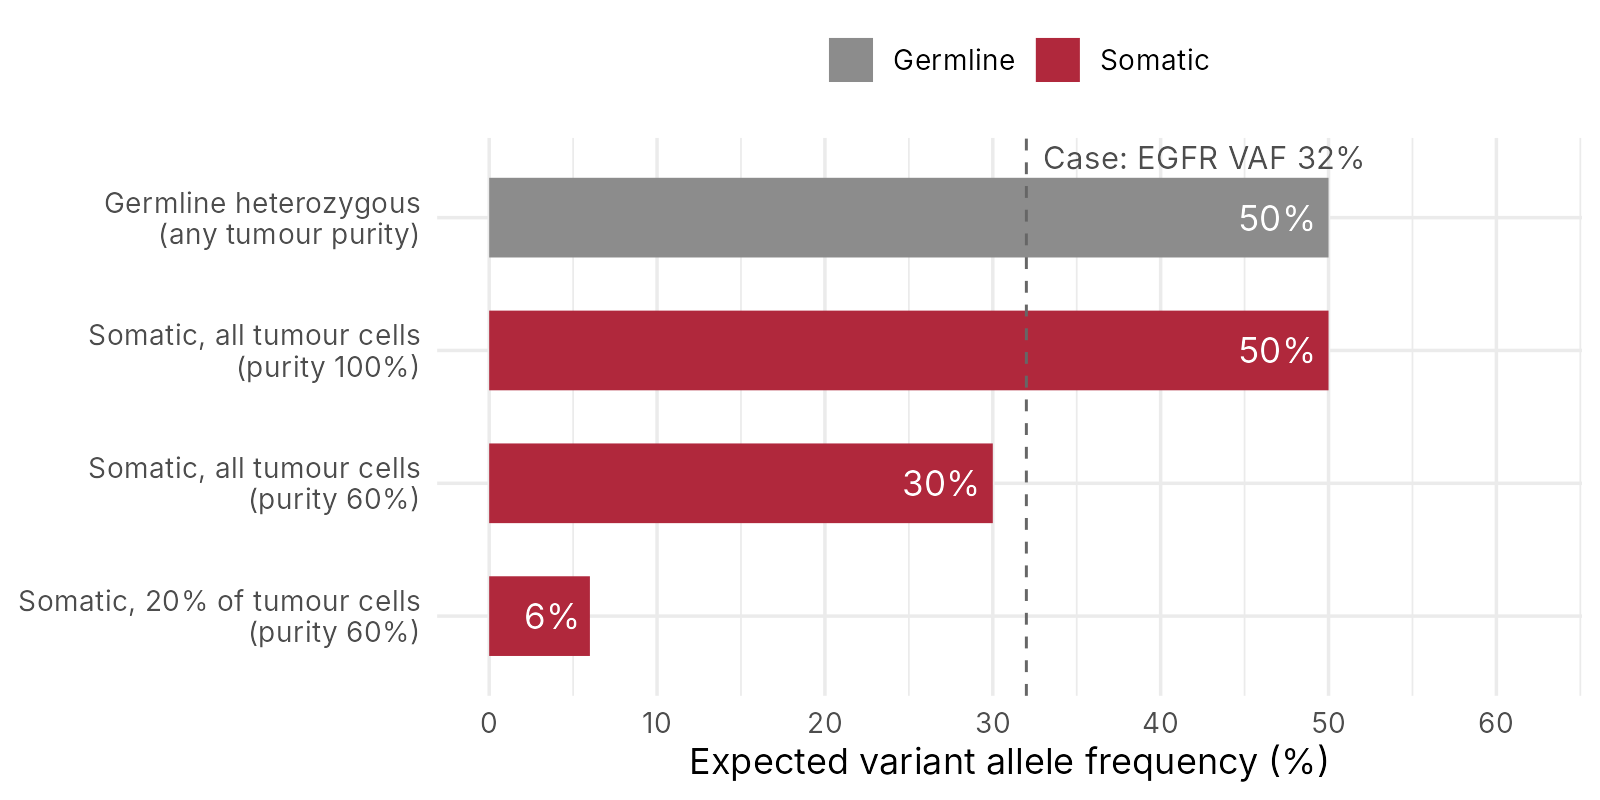
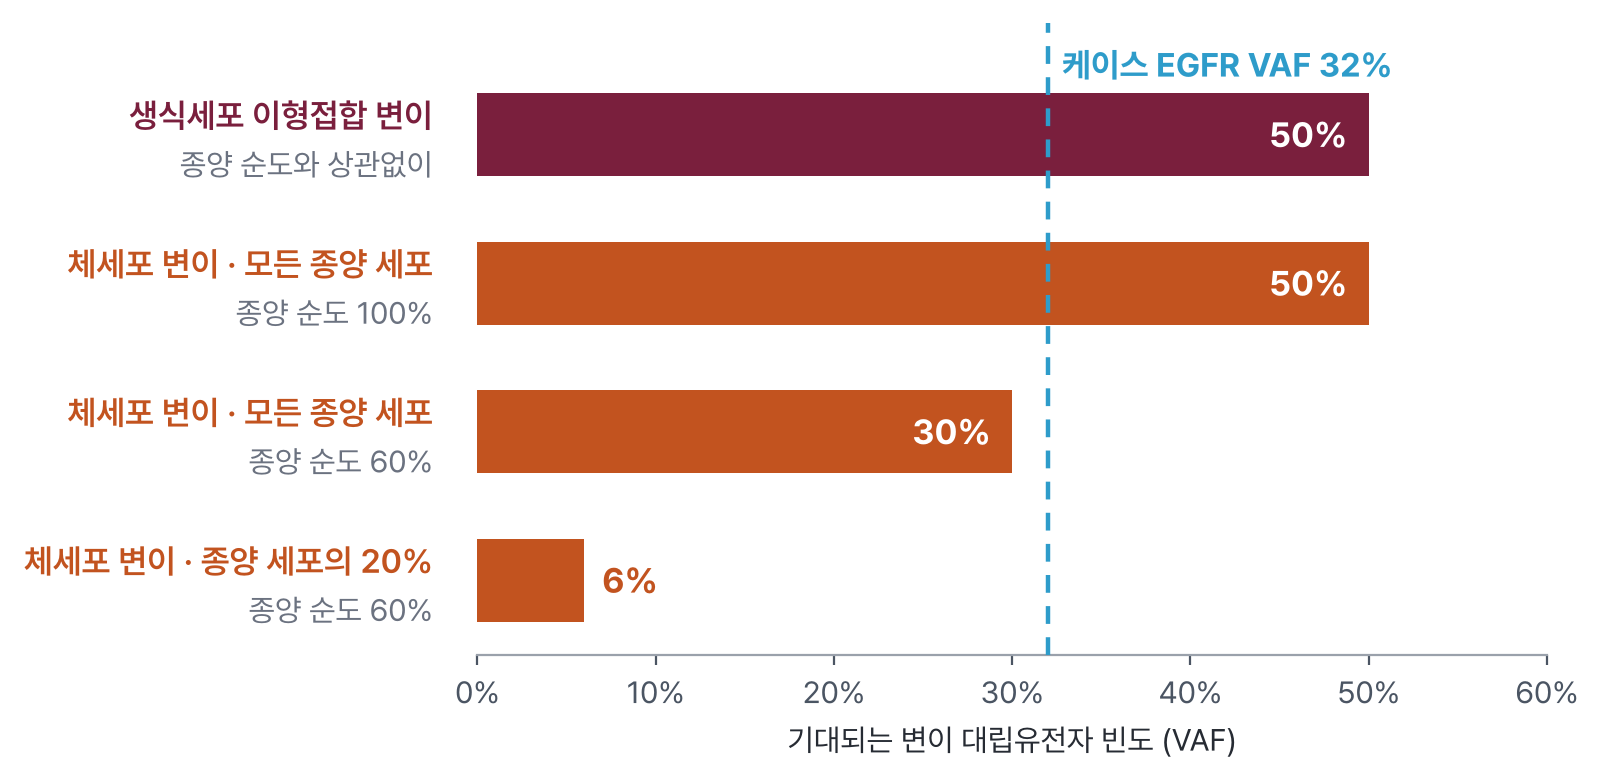
Add W6 concept figures in the shared Korean figure style
Seven figures from scripts/figs/w06_*.py: germline vs somatic (and what
tumour-only vs tumour-normal testing sees), expected VAF (redrawn in Korean,
replacing scripts/make_w06_figs.R), driver hotspot vs scattered loss of
function vs long passenger gene, companion diagnostic decision for the case,
resistance by clonal selection (T790M), liquid biopsy limits (low ctDNA,
CHIP) and synthetic lethality with PARP inhibitors. All ≤ 8 in wide with
labels ≥ 11 pt so they stay readable in the ~610 px column.

Claude-Session: https://claude.ai/code/session_013CY8uBCr4DnGjUKSp6qsd8

diff --git a/scripts/figs/w06_driver_hotspot.py b/scripts/figs/w06_driver_hotspot.py
@@ -1,0 +1,76 @@
+# W6 §2.2 driver를 알아보는 법: 변이가 단백질 어디에 모이나 (막대 높이 = 그 자리에 변이가 있는 종양 수, 예시)
+from medfig import *
+
+rng = np.random.default_rng(6)
+MIS, TRUNC = CRIMSON, ORANGE                   # missense vs truncating
+TRACK = "#E4E6EA"
+fig, ax = new(7.8, 6.7)
+X0 = 0.2                                         # where every protein starts
+
+
+def track(y, L, broken=False):
+    box(ax, X0, y - 0.07, L, 0.14, fc=TRACK, ec="none", r=0.07, z=2)
+    if broken:                                   # "very long" break mark
+        xb = X0 + L * 0.5
+        ax.add_patch(mp.Rectangle((xb - 0.09, y - 0.12), 0.18, 0.24, fc="white", ec="none", zorder=3))
+        for dx in (-0.09, 0.09):
+            ax.plot([xb + dx - 0.04, xb + dx + 0.04], [y - 0.13, y + 0.13], color="#9AA1AB", lw=1.3, zorder=4)
+
+
+def pop(x, y, h, kind):
+    ax.plot([x, x], [y + 0.07, y + 0.07 + h], color="#B9BEC6", lw=1.1, zorder=3)
+    if kind == "mis":
+        ax.add_patch(mp.Circle((x, y + 0.07 + h), 0.07, fc=MIS, ec="white", lw=0.8, zorder=5))
+    else:
+        ax.add_patch(mp.Rectangle((x - 0.065, y + 0.07 + h - 0.065), 0.13, 0.13, fc=TRUNC, ec="white", lw=0.8, zorder=5))
+
+
+def spaced(n, lo, hi, gap, avoid=()):
+    """n x positions in [lo, hi] at least `gap` apart (and away from `avoid`)."""
+    out = []
+    while len(out) < n:
+        x = rng.uniform(lo, hi)
+        if all(abs(x - o) >= gap for o in list(out) + list(avoid)):
+            out.append(x)
+    return sorted(out)
+
+
+def head(y, tag, gene, note, col):
+    """Row heading above the track: tag, example gene, what to notice."""
+    t = label(ax, X0, y, tag, fs=13, w="bold", c=col, ha="left")
+    ax.figure.canvas.draw()
+    x = X0 + t.get_window_extent().width / ax.figure.dpi + 0.12
+    label(ax, x, y, gene, fs=11.5, c=TEXT2, ha="left")
+    label(ax, X0, y - 0.32, note, fs=11.5, c=TEXT, ha="left")
+
+
+# ① oncogene: one hotspot (KRAS G12)
+y = 4.65; L = 3.4
+head(6.45, "① 종양유전자", "예: KRAS", "같은 자리가 반복해서 바뀜 = hotspot (켜진 채로 고정)", WINE)
+track(y, L)
+pop(X0 + L * 12 / 189, y, 1.05, "mis")
+label(ax, X0 + L * 12 / 189 + 0.14, y + 1.12, "G12", fs=12, w="bold", c=MIS, ha="left")
+for p in [40, 75, 117, 146, 160]:
+    pop(X0 + L * p / 189, y, 0.12 + 0.06 * rng.random(), "mis")
+
+# ② tumour suppressor: loss-of-function scattered
+y = 2.75; L = 6.0
+head(3.9, "② 종양억제유전자", "예: STK11", "일찍 끝나는 변이가 곳곳에 흩어짐 = 기능 상실 (브레이크 고장)", CRIMSON)
+track(y, L)
+for x in spaced(15, X0 + 0.1, X0 + L - 0.1, 0.24):
+    pop(x, y, 0.14 + 0.32 * rng.random(), "trunc" if rng.random() < 0.65 else "mis")
+
+# ③ long gene: many passengers
+y = 0.75; L = 7.4
+head(1.85, "③ 아주 긴 유전자", "예: TTN", "길이 때문에 변이가 쌓임 → 대부분 passenger", ORANGE)
+track(y, L, broken=True)
+for x in spaced(24, X0 + 0.1, X0 + L - 0.1, 0.2, avoid=[X0 + L * 0.5]):
+    pop(x, y, 0.1 + 0.16 * rng.random(), "mis" if rng.random() < 0.85 else "trunc")
+
+# legend (bottom)
+for i, (kind, name) in enumerate([("mis", "아미노산 하나가 바뀜 (missense)"), ("trunc", "일찍 끝남 (종결 코돈 · frameshift)")]):
+    xx = X0 + 0.07 + i * 3.75
+    pop(xx, 0.08 - 0.07, 0.0, kind)
+    label(ax, xx + 0.17, 0.08, name, fs=11, c=TEXT2, ha="left")
+label(ax, X0, -0.25, "막대 높이 = 그 자리에 변이가 있는 종양 수 (예시)", fs=11, c=TEXT2, ha="left")
+save(fig, "../../assets/img/w06/driver_hotspot.png")

diff --git a/scripts/figs/w06_germline_somatic.py b/scripts/figs/w06_germline_somatic.py
@@ -1,0 +1,58 @@
+# W6 §1.1 생식세포 변이 vs 체세포 변이: 어느 세포에 있나, 시료마다 무엇이 보이나
+from medfig import *
+
+GERM, SOMA = WINE, ORANGE                       # the two kinds of variant
+NORMAL_FC, NORMAL_EC = "#F1F2F4", "#D5D8DD"
+TUMOUR_FC, TUMOUR_EC = mix(CRIMSON, 0.2), mix(CRIMSON, 0.55)
+
+fig, ax = new(7.7, 6.6)
+
+
+def tissue(x0, y0, somatic):
+    """A patch of tissue: grid of cells, a tumour cluster on the right."""
+    nx, ny, r, step = 10, 5, 0.1, 0.25
+    cx, cy = x0 + 6.9 * step, y0 + 2.0 * step         # tumour centre
+    for i in range(nx):
+        for j in range(ny):
+            x, y = x0 + i * step + (0.12 if j % 2 else 0), y0 + j * step
+            tum = ((x - cx) / 0.72) ** 2 + ((y - cy) / 0.48) ** 2 <= 1
+            ax.add_patch(mp.Circle((x, y), r, fc=TUMOUR_FC if tum else NORMAL_FC,
+                                   ec=TUMOUR_EC if tum else NORMAL_EC, lw=0.9, zorder=2))
+            if (not somatic) or tum:
+                ax.add_patch(mp.Circle((x, y), 0.036, fc=SOMA if somatic else GERM, ec="none", zorder=3))
+    return cx, cy
+
+
+# ① ② where the variant is
+for x0, somatic, tag, line1, line2 in [
+        (0.25, False, "① 생식세포 변이", "몸의 거의 모든 세포에 있음", "→ 자녀에게 전달될 수 있음"),
+        (4.15, True, "② 체세포 변이", "종양 세포에만 있음", "→ 자녀에게 전달되지 않음")]:
+    col = SOMA if somatic else GERM
+    label(ax, x0 - 0.1, 6.2, tag, fs=13, w="bold", c=col, ha="left")
+    cx, cy = tissue(x0, 4.55, somatic)
+    label(ax, cx, cy + 0.72, "종양", fs=11, w="semibold", c=CRIMSON)
+    label(ax, x0 - 0.1, 4.12, line1, fs=11, c=TEXT, ha="left")
+    label(ax, x0 - 0.1, 3.82, line2, fs=11, c=TEXT2, ha="left")
+
+ax.plot([0.1, 7.6], [3.45, 3.45], color=LINE, lw=1)
+
+# ③ what each sample shows
+label(ax, 0.15, 3.12, "③ 시료마다 보이는 변이", fs=13, w="bold", c=TEXT, ha="left")
+cols = [(3.7, "생식세포 변이", GERM), (5.6, "체세포 변이", SOMA)]
+for x, name, c in cols:
+    label(ax, x, 2.7, name, fs=11, w="semibold", c=c)
+for y, name, has in [(2.2, "종양 조직", (True, True)), (1.55, "혈액 (정상 세포)", (True, False))]:
+    box(ax, 0.15, y - 0.26, 6.6, 0.52, fc=FAINT, ec="none", r=0.08)
+    label(ax, 0.35, y, name, fs=11, w="semibold", ha="left")
+    for (x, _, c), h in zip(cols, has):
+        if h:
+            ax.add_patch(mp.Circle((x, y), 0.11, fc=c, ec="none", zorder=4))
+        else:
+            label(ax, x, y, "없음", fs=11, c=TEXT2)
+
+# conclusions
+label(ax, 0.15, 0.92, "종양만 읽으면 두 변이가 똑같이 '종양에서 찾은 변이'로 보고됨 → 구별 못 함",
+      fs=11, w="bold", c=BLUE, ha="left")
+label(ax, 0.15, 0.55, "혈액도 함께 읽어 겹치는 것을 빼면 체세포 변이만 남음 (종양-정상 쌍)",
+      fs=11, c=TEXT, ha="left")
+save(fig, "../../assets/img/w06/germline_somatic.png")

diff --git a/scripts/figs/w06_liquid_biopsy.py b/scripts/figs/w06_liquid_biopsy.py
@@ -1,0 +1,50 @@
+# W6 §5 액체생검: 혈액 속 cfDNA, ctDNA가 적을 때, 클론성 조혈 (조각 수는 예시)
+from medfig import *
+
+rng = np.random.default_rng(11)
+NORM, CT, CHIP = "#C3C8D0", ORANGE, WINE
+fig, ax = new(7.8, 5.7)
+
+
+def tube(x, y, w, h, n_norm, n_ct=0, n_chip=0):
+    box(ax, x, y, w, h, fc=FAINT, ec=LINE, lw=1.2, r=0.15)
+    kinds = [NORM] * n_norm + [CT] * n_ct + [CHIP] * n_chip
+    rng.shuffle(kinds)
+    # fragments on a jittered grid (never touching), a random subset of the slots
+    cols = np.arange(x + 0.24, x + w - 0.2, 0.36)
+    rows = np.arange(y + 0.2, y + h - 0.12, 0.18)
+    slots = [(cx + rng.uniform(-0.03, 0.03), cy) for cy in rows for cx in cols]
+    pick = rng.choice(len(slots), len(kinds), replace=False)
+    for i, c in zip(pick, kinds):
+        px, py = slots[i]
+        box(ax, px - 0.12, py - 0.035, 0.24, 0.07, fc=c, ec="none", r=0.035, z=3)
+
+
+TY, TH = 2.75, 2.25
+# ① cfDNA
+label(ax, 0.1, 5.45, "① 혈액 속 DNA 조각", fs=12.5, w="bold", c=TEXT, ha="left")
+tube(0.15, TY, 1.8, TH, 32, n_ct=4)
+label(ax, 1.05, 2.48, "대부분 혈액세포에서", fs=11, c=TEXT)
+label(ax, 1.05, 2.2, "일부만 종양에서 (ctDNA)", fs=11, c=CT, w="semibold")
+
+# ② little ctDNA
+label(ax, 2.5, 5.45, "② ctDNA가 적으면", fs=12.5, w="bold", c=TEXT, ha="left")
+for x, n_ct, t, s in [(2.55, 5, "진행암", "찾음"), (3.75, 0, "초기암 등", "못 찾을 수 있음")]:
+    tube(x, TY, 1.0, TH, 13, n_ct=n_ct)
+    label(ax, x + 0.5, 2.48, t, fs=11, w="semibold", c=TEXT)
+    label(ax, x + 0.5, 2.2, s, fs=11, c=TEXT2)
+label(ax, 3.65, 1.82, "음성 ≠ 없음", fs=12, w="bold", c=BLUE)
+label(ax, 3.65, 1.55, "→ 조직 검사로 확인", fs=11.5, w="bold", c=BLUE)
+
+# ③ CHIP
+label(ax, 5.3, 5.45, "③ 클론성 조혈", fs=12.5, w="bold", c=TEXT, ha="left")
+tube(5.4, TY, 1.8, TH, 26, n_ct=2, n_chip=6)
+label(ax, 6.3, 2.48, "혈액세포 자신의 변이", fs=11, c=CHIP, w="semibold")
+label(ax, 6.3, 2.2, "→ 혈액세포도 읽어서 뺌", fs=11, c=TEXT)
+
+# legend (left: two items, right: one)
+for (x, y, c, t) in [(0.15, 0.85, NORM, "정상 혈액세포에서 온 조각"), (0.15, 0.55, CT, "종양에서 온 조각 (ctDNA)"),
+                     (0.15, 0.25, CHIP, "변이를 가진 혈액세포에서 온 조각")]:
+    box(ax, x, y - 0.035, 0.24, 0.07, fc=c, ec="none", r=0.035, z=3)
+    label(ax, x + 0.33, y, t, fs=11, c=TEXT2, ha="left")
+save(fig, "../../assets/img/w06/liquid_biopsy.png")

diff --git a/scripts/figs/w06_synthetic_lethality.py b/scripts/figs/w06_synthetic_lethality.py
@@ -1,0 +1,46 @@
+# W6 §7 합성치사: BRCA가 망가진 종양 세포 + PARP 억제제 → 두 복구 경로를 다 잃고 죽음
+from medfig import *
+
+HR, PARP = CRIMSON, ORANGE                      # the two repair pathways
+OFF = "#ECEDF0"
+fig, ax = new(7.9, 4.9)
+
+X0, Y0, CW, CH = 1.75, 0.1, 3.05, 1.95          # grid origin and cell size
+cols = ["PARP 억제제 없음", "PARP 억제제"]
+rows = [("BRCA가", "망가진", "종양 세포"), ("정상 세포", "", "")]
+
+
+def path(x, y, name, sub, col, on):
+    box(ax, x, y, 1.95, 0.48, fc=col if on else OFF, ec="none", r=0.24, z=3)
+    c = "white" if on else "#9AA1AB"
+    label(ax, x + 0.15, y + 0.24, name, fs=11, w="bold", c=c, ha="left", z=5)
+    label(ax, x + 1.82, y + 0.24, sub, fs=10, c=c, ha="right", z=5)
+    if not on:
+        ax.plot([x + 0.1, x + 1.85], [y + 0.24, y + 0.24], color="#9AA1AB", lw=1.4, zorder=6)
+
+
+for j, c in enumerate(cols):
+    label(ax, X0 + CW * (j + 0.5), Y0 + 2 * CH + 0.3, c, fs=12.5, w="bold", c=TEXT)
+for i, lines in enumerate(rows):
+    yc = Y0 + CH * (i + 0.5)
+    lines = [t for t in lines if t]
+    for k, t in enumerate(lines):
+        label(ax, X0 - 0.15, yc + (len(lines) - 1) * 0.16 - k * 0.32, t, fs=12, w="bold", c=TEXT, ha="right")
+
+for i in range(2):              # i = 0: BRCA-deficient tumour (bottom), 1: normal (top)
+    for j in range(2):          # j = 0: no drug, 1: PARP inhibitor
+        x, y = X0 + j * CW, Y0 + i * CH
+        dies = (i == 0 and j == 1)
+        box(ax, x + 0.05, y + 0.05, CW - 0.1, CH - 0.1, fc=mix(BLUE, 0.08) if dies else FAINT,
+            ec=BLUE if dies else "none", lw=1.6, r=0.12, z=2)
+        hr_on, parp_on = (i == 1), (j == 0)
+        path(x + 0.18, y + 1.05, "상동 재조합", "BRCA", HR, hr_on)
+        path(x + 0.18, y + 0.42, "한 가닥 복구", "PARP", PARP, parp_on)
+        if dies:
+            label(ax, x + 2.0 + 0.53, y + 1.15, "죽음", fs=13, w="bold", c=BLUE)
+            label(ax, x + 2.0 + 0.53, y + 0.8, "합성치사", fs=11, w="bold", c=BLUE)
+        else:
+            label(ax, x + 2.0 + 0.53, y + 1.15, "생존", fs=13, w="bold", c=TEXT)
+            sub = "둘 다 작동" if hr_on and parp_on else "남은 길로"
+            label(ax, x + 2.0 + 0.53, y + 0.8, sub, fs=11, c=TEXT2)
+save(fig, "../../assets/img/w06/synthetic_lethality.png")

diff --git a/scripts/figs/w06_resistance.py b/scripts/figs/w06_resistance.py
@@ -1,0 +1,50 @@
+# W6 §3.4 표적치료 내성: 약을 피하는 변이를 가진 세포가 살아남아 불어남 (세포 수는 예시)
+from medfig import *
+
+rng = np.random.default_rng(3)
+SENS, RES = mix(CRIMSON, 0.8), ORANGE
+fig, ax = new(8.0, 3.9)
+
+
+def tumour(cx, cy, R, n_res, res_frac=None, r=0.075):
+    """Cells packed in a disc of radius R; n_res resistant cells (or a fraction of all)."""
+    pts = []
+    step = 2 * r + 0.02
+    for j, y in enumerate(np.arange(-R, R + 1e-9, step * 0.87)):
+        for x in np.arange(-R + (step / 2 if j % 2 else 0), R + 1e-9, step):
+            if x * x + y * y <= (R - r * 0.6) ** 2:
+                pts.append((cx + x, cy + y))
+    n = len(pts)
+    k = n_res if res_frac is None else int(round(res_frac * n))
+    res = set(rng.choice(n, k, replace=False))
+    for i, (x, y) in enumerate(pts):
+        ax.add_patch(mp.Circle((x, y), r, fc=RES if i in res else SENS, ec="white", lw=0.7, zorder=3))
+
+
+cy = 2.1
+tumour(0.85, cy, 0.75, 2)
+tumour(3.1, cy, 0.3, 3)
+tumour(5.35, cy, 0.75, 0, res_frac=0.85)
+
+for x, t, s1, s2 in [(0.85, "치료 전", "내성 세포가 드물게", "있거나 새로 생김"),
+                     (3.1, "1·2세대 EGFR 억제제", "듣는 세포가 죽어", "종양이 줄어듦"),
+                     (5.35, "시간이 지나 재발", "내성 세포가 불어나", "다시 자람")]:
+    label(ax, x, 3.2, t, fs=12.5, w="bold", c=TEXT)
+    label(ax, x, 1.05, s1, fs=11, c=TEXT2)
+    label(ax, x, 0.76, s2, fs=11, c=TEXT2)
+arrow(ax, 1.75, cy, 2.6, cy)
+arrow(ax, 3.6, cy, 4.45, cy)
+
+# next step
+arrow(ax, 6.17, cy, 6.4, cy)
+box(ax, 6.45, 1.5, 1.4, 1.2, fc=mix(ORANGE, 0.12), ec="none", r=0.1)
+label(ax, 7.15, 2.36, "3세대 약", fs=12, w="bold", c=ORANGE)
+label(ax, 7.15, 2.08, "osimertinib", fs=11, c=TEXT)
+label(ax, 7.15, 1.8, "T790M에도 들음", fs=11, c=TEXT2)
+
+# legend
+for i, (c, t) in enumerate([(SENS, "약에 듣는 세포"), (RES, "내성 변이(EGFR T790M)를 가진 세포")]):
+    x = 0.15 + i * 2.1
+    ax.add_patch(mp.Circle((x, 0.25), 0.08, fc=c, ec="none", zorder=3))
+    label(ax, x + 0.15, 0.25, t, fs=11, c=TEXT2, ha="left")
+save(fig, "../../assets/img/w06/resistance.png")

diff --git a/scripts/figs/w06_vaf_expected.py b/scripts/figs/w06_vaf_expected.py
@@ -1,0 +1,32 @@
+# W6 §1.2 상황별로 기대되는 VAF (두 벌 염색체 중 한쪽에만 변이가 있을 때)
+#   생식세포 이형접합 변이: VAF ≈ 50% (종양 세포든 정상 세포든 모두 가짐)
+#   체세포 변이: VAF ≈ 종양 순도 × 그 변이를 가진 종양 세포 비율 ÷ 2
+from medfig import *
+
+GERM, SOMA = WINE, ORANGE           # same colours as germline_somatic.png
+rows = [  # label line 1, line 2, VAF %, germline?
+    ("생식세포 이형접합 변이", "종양 순도와 상관없이", 50, True),
+    ("체세포 변이 · 모든 종양 세포", "종양 순도 100%", 50, False),
+    ("체세포 변이 · 모든 종양 세포", "종양 순도 60%", 30, False),
+    ("체세포 변이 · 종양 세포의 20%", "종양 순도 60%", 6, False),
+]
+
+fig, ax = plt.subplots(figsize=(6.9, 4.1))
+ys = np.arange(len(rows))[::-1]
+for y, (l1, l2, v, g) in zip(ys, rows):
+    ax.barh(y, v, height=0.56, color=GERM if g else SOMA)
+    ax.text(v - 1.2 if v > 10 else v + 1.0, y, f"{v}%", ha="right" if v > 10 else "left", va="center",
+            fontsize=12.5, fontweight="bold", color="white" if v > 10 else SOMA)
+    ax.text(-2.5, y + 0.13, l1, ha="right", va="center", fontsize=12, fontweight="semibold",
+            color=GERM if g else SOMA)
+    ax.text(-2.5, y - 0.2, l2, ha="right", va="center", fontsize=11, color=TEXT2)
+
+ax.axvline(32, color=BLUE, lw=1.6, ls=(0, (4, 3)), zorder=3)
+ax.text(32.8, 3.47, "케이스 EGFR VAF 32%", color=BLUE, fontsize=12, fontweight="bold", va="center")
+ax.set_xlim(0, 60); ax.set_ylim(-0.5, 3.75)
+ax.set_xticks(range(0, 61, 10)); ax.set_xticklabels([f"{t}%" for t in range(0, 61, 10)])
+ax.set_yticks([])
+ax.spines["left"].set_visible(False)
+ax.set_xlabel("기대되는 변이 대립유전자 빈도 (VAF)", fontsize=11, color=TEXT)
+ax.tick_params(axis="x", labelsize=11)
+save(fig, "../../assets/img/w06/vaf_expected.png")

diff --git a/scripts/figs/w06_companion_dx.py b/scripts/figs/w06_companion_dx.py
@@ -1,0 +1,29 @@
+# W6 §3.2 동반진단: 검사 결과가 약을 고르는 흐름 (케이스: 폐선암, EGFR exon 19 결실)
+from medfig import *
+
+fig, ax = new(7.8, 3.5)
+
+
+def card(x, y, w, h, title, sub, fc, tc="white", sc=None):
+    box(ax, x, y, w, h, fc=fc, ec="none", r=0.1)
+    label(ax, x + w / 2, y + h * 0.64, title, fs=12.5, w="bold", c=tc)
+    label(ax, x + w / 2, y + h * 0.3, sub, fs=11, c=sc or tc)
+
+
+W, H, Y = 1.55, 1.0, 1.1
+card(0.05, Y, W, H, "폐선암 4기", "종양 조직·혈액", mix(CRIMSON, 0.12), tc=CRIMSON, sc=TEXT2)
+arrow(ax, 1.66, Y + H / 2, 1.9, Y + H / 2)
+card(1.95, Y, W, H, "NGS 패널", "= 동반진단 검사", WINE)
+arrow(ax, 3.56, Y + H / 2, 3.8, Y + H / 2)
+card(3.85, Y, W, H, "EGFR 활성화", "변이가 있나?", CRIMSON)
+
+# yes / no
+arrow(ax, 5.47, Y + 0.78, 5.83, 2.45, color=BLUE, lw=2.2, ms=14)
+label(ax, 5.5, 2.3, "예", fs=12, w="bold", c=BLUE)
+card(5.9, 2.15, 1.85, 0.95, "EGFR 억제제", "osimertinib 등", ORANGE)
+arrow(ax, 5.47, Y + 0.22, 5.83, 0.75)
+label(ax, 5.42, 0.8, "아니오", fs=11, w="bold", c=TEXT2)
+card(5.9, 0.1, 1.85, 0.95, "다른 driver 확인", "ALK 융합 등", AMBER)
+
+label(ax, 5.9 + 1.85 / 2, 3.3, "케이스: exon 19 결실", fs=12, w="bold", c=BLUE)
+save(fig, "../../assets/img/w06/companion_dx.png")
